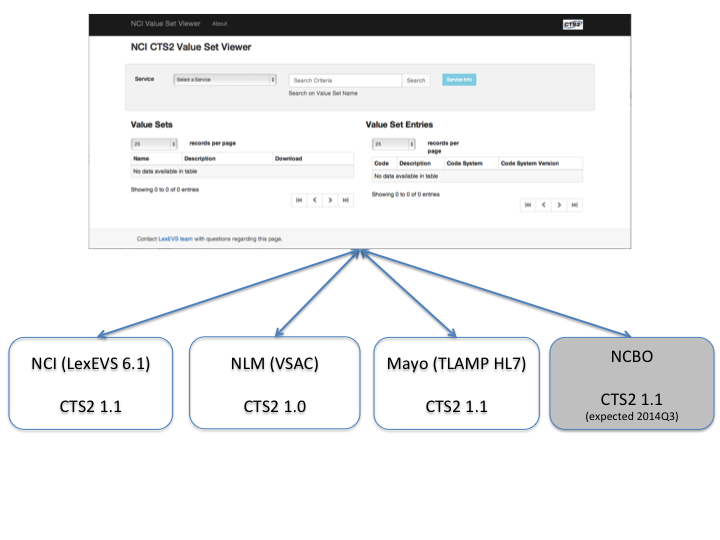
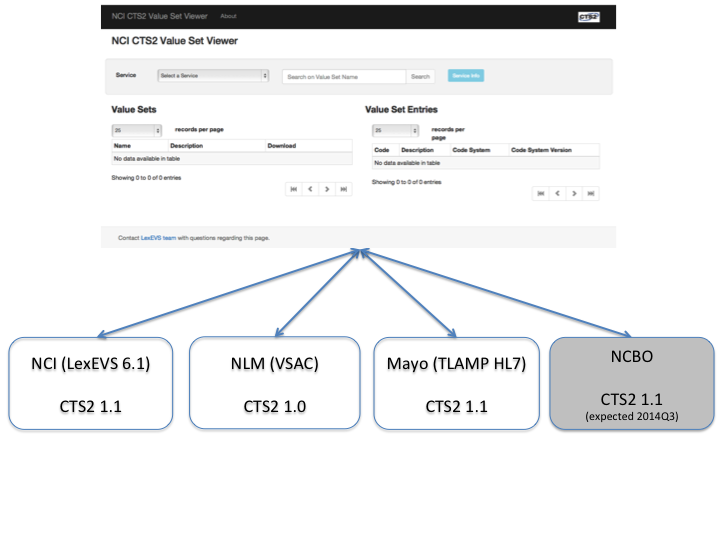
Updated text to reference NCI CTS2 Value Set Viewer.

diff --git a/tpl/AboutView.html b/tpl/AboutView.html
@@ -1,11 +1,11 @@
 <div class="container">
 
     <div class="page-header">
-        <h1>About NCI Value Set Viewer</h1>
+        <h1>About NCI CTS2 Value Set Viewer</h1>
     </div>
 
 
-    <p class="lead">The NCI Value Set Viewer is a client prototype that exposes Common Terminology Services 2 (CTS2)
+    <p class="lead">The NCI CTS2 Value Set Viewer is a client prototype that exposes Common Terminology Services 2 (CTS2)
         Value Set Services from NCI, NLM, NCBO (coming soon) and Mayo Clinic. The prototype illustrates how CTS2 enables
         distributed and interoperable terminology services, which can be combined to build new integrated applications.</p>
 

diff --git a/tpl/ShellView.html b/tpl/ShellView.html
@@ -8,7 +8,7 @@
 				<span class="icon-bar"></span>
 				<span class="icon-bar"></span>
 			</button>
-			<a class="navbar-brand" href="#">NCI Value Set Viewer</a>
+			<a class="navbar-brand" href="#">NCI CTS2 Value Set Viewer</a>
 		</div>
 		<div class="navbar-collapse collapse">
 
